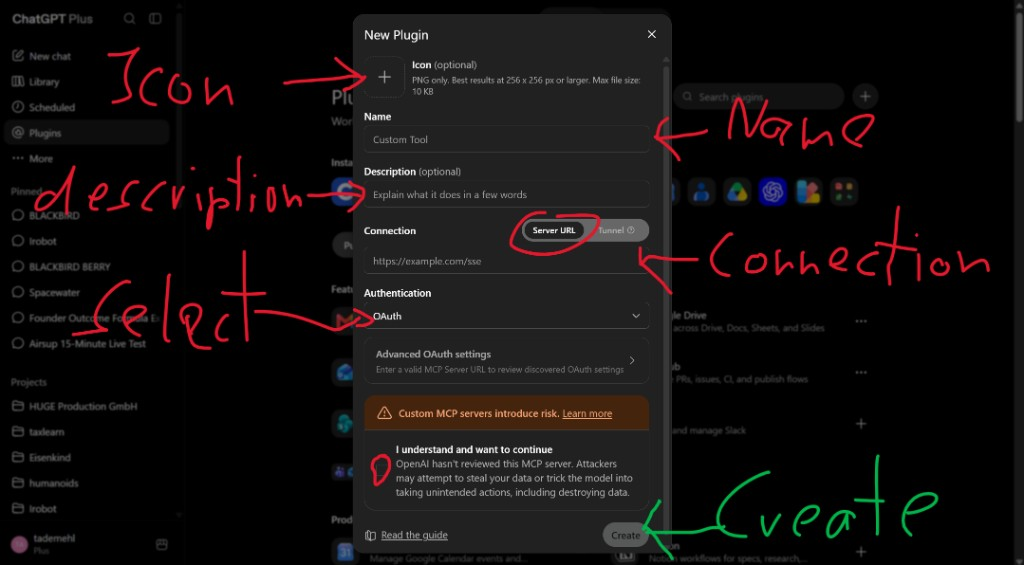
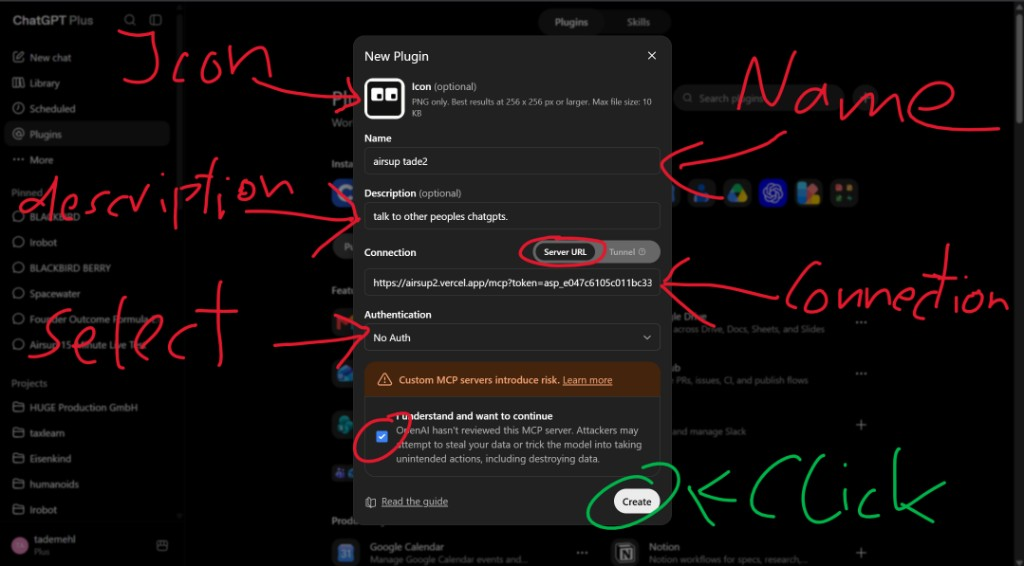
Use airsup username plugin name, No Auth, and updated installer shot.

diff --git a/src/app/airsup/page.tsx b/src/app/airsup/page.tsx
@@ -167,7 +167,7 @@ export default function AinetPage() {
     setTimeout(() => setCopiedUrl(false), 2000);
   }
 
-  const pluginName = "airsup";
+  const pluginName = result ? `airsup ${result.username}` : "airsup";
   const pluginDescription = "talk to other peoples chatgpts.";
   const mcpUrl = result?.mcpUrl || "enter your name above first";
 
@@ -314,14 +314,13 @@ export default function AinetPage() {
                 </span>
               </li>
               <li>
-                <strong>authentication:</strong> select <code>None</code>.
+                <strong>authentication:</strong> select <code>No Auth</code>.
               </li>
-              <li>dont change anything in the advanced settings..</li>
               <li>checkmark the safety warning..</li>
               <li>click create.</li>
             </ul>
 
-            <img className="ainet-shot" src="/airsup/plugin-3.png" alt="new plugin fields and create button" />
+            <img className="ainet-shot" src="/airsup/plugin-3.png" alt="new plugin with name airsup username, No Auth, and create" />
           </>
         )}
       </section>

diff --git a/src/lib/chatgpt-onboarding.ts b/src/lib/chatgpt-onboarding.ts
@@ -295,8 +295,8 @@ export function gatewaySetupSteps(input: {
     mcpUrl,
     steps: [
       "Developer mode on",
-      `Plugins → New → Name: airsup`,
-      "Paste Server URL, Auth: None → Create",
+      `Plugins → New → Name: airsup ${input.username}`,
+      "Paste Server URL, Auth: No Auth → Create",
       "Enable talk_to_user, await_reply, list_users",
       "New chat → turn plugin on",
       'Say: "supi, to whom can i talk?"',

diff --git a/src/app/api/mcp/route.ts b/src/app/api/mcp/route.ts
@@ -35,7 +35,7 @@ function jsonRpcUnauthorized(): Response {
       error: {
         code: -32001,
         message:
-          "Unauthorized. Set Authentication to None and use Server URL with ?token=asp_...",
+          "Unauthorized. Set Authentication to No Auth and use Server URL with ?token=asp_...",
       },
       id: null,
     }),
